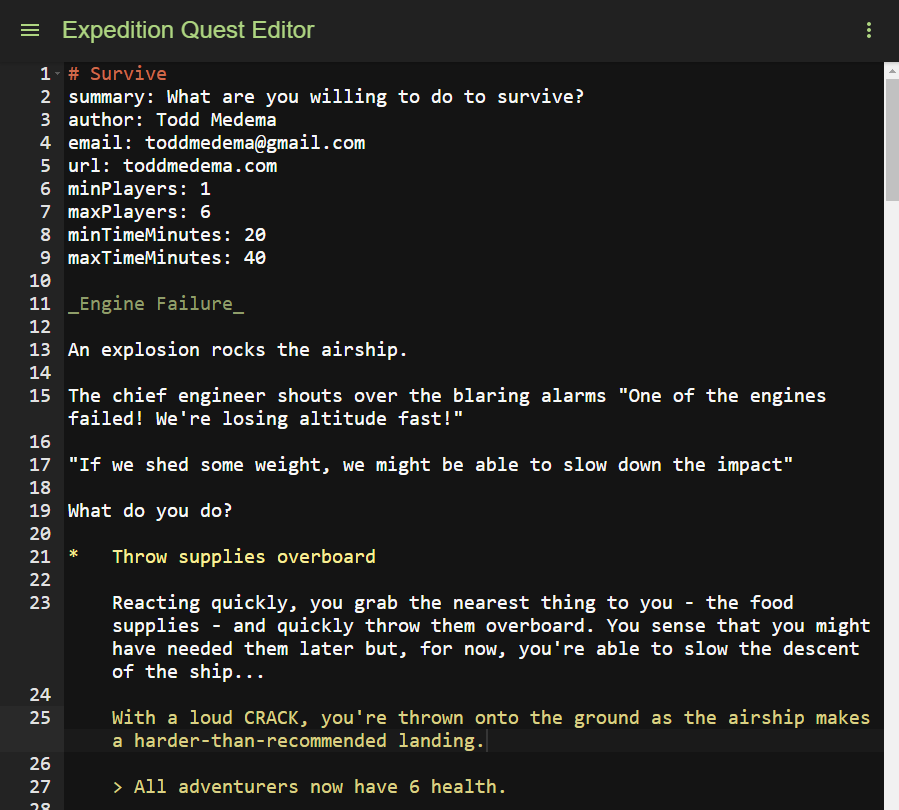
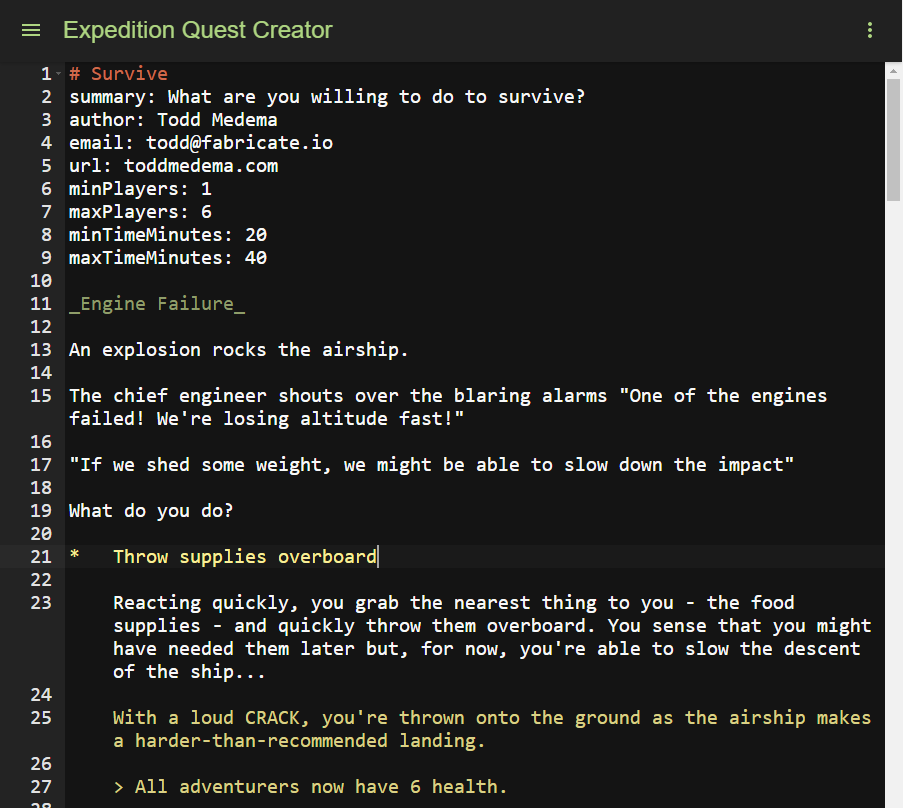
working login and logout from splash page

diff --git a/app/react.tsx b/app/react.tsx
@@ -2,6 +2,7 @@
 /// <reference path="../typings/redux-thunk/redux-thunk.d.ts" />
 /// <reference path="../typings/react-redux/react-redux.d.ts" />
 /// <reference path="../typings/react/react-dom.d.ts" />
+/// <reference path="../typings/react/react-router.d.ts" />
 /// <reference path="../typings/material-ui/material-ui.d.ts" />
 /// <reference path="../typings/react-tap-event-plugin/react-tap-event-plugin.d.ts" />
 /// <reference path="../typings/jquery/jquery.d.ts" />
@@ -17,7 +18,8 @@
 
 
 import * as React from 'react';
-import * as ReactDOM from 'react-dom';
+import { render } from 'react-dom';
+import { Router, Route, Link, hashHistory } from 'react-router';
 
 // So we can hot reload
 declare var require: any;
@@ -41,10 +43,11 @@ import { Provider } from 'react-redux';
 import { createStore, applyMiddleware } from 'redux';
 
 // Custom components
+import DialogsContainer from './components/DialogsContainer';
+import SplashContainer from './components/SplashContainer';
 import QuestAppBarContainer from './components/QuestAppBarContainer';
 import QuestDrawerContainer from './components/QuestDrawerContainer';
 import QuestIDEContainer from './components/QuestIDEContainer';
-import DialogsContainer from './components/DialogsContainer';
 import questIDEApp from './reducers/CombinedReducers';
 
 // Initialize the global redux store
@@ -66,11 +69,30 @@ declare var gapi: any;
 function initAuth(): void {
   gapi.client.setApiKey("AIzaSyCgvf8qiaVoPE-F6ZGqX6LzukBftZ6fJr8");
   gapi.auth2.init({
-      client_id: "545484140970-r95j0rmo8q1mefo0pko6l3v6p4s771ul.apps.googleusercontent.com",
-      scope: "profile"
+    client_id: "545484140970-r95j0rmo8q1mefo0pko6l3v6p4s771ul.apps.googleusercontent.com",
+    scope: "profile"
+  }).then(function() {
+    // Render the components, picking up where react left off on the server
+    render(
+      <Router history={hashHistory}>
+        <Route path="/" component={SplashPage}></Route>
+        <Route path="/app" component={AppPage} onEnter={requireAuth}></Route>
+      </Router>,
+      document.getElementById('react-app')
+    );
   });
 }
 gapi.load('client:auth2', initAuth);
+
+
+function requireAuth(nextState: any, replace: any): void {
+  if (gapi.auth2 == null || !gapi.auth2.getAuthInstance().isSignedIn.get()) {
+    replace({
+      pathname: '/',
+      state: { nextPathname: nextState.location.pathname }
+    });
+  }
+}
 
 
 if (module.hot) {
@@ -82,17 +104,34 @@ if (module.hot) {
   });
 }
 
-// Render the components, picking up where react left off on the server
-ReactDOM.render(
-  <MuiThemeProvider muiTheme={getMuiTheme(theme)}>
-    <Provider store={store}>
-      <div style={{width: "100%", height: "100%"}}>
-        <QuestAppBarContainer/>
-        <QuestIDEContainer/>
-        <QuestDrawerContainer/>
-        <DialogsContainer/>
-      </div>
-    </Provider>
-  </MuiThemeProvider>,
-  document.getElementById('react-app')
-);
+
+const AppPage = React.createClass({
+  render() {
+    return (
+      <MuiThemeProvider muiTheme={getMuiTheme(theme)}>
+        <Provider store={store}>
+          <div style={{width: "100%", height: "100%"}}>
+            <QuestAppBarContainer/>
+            <QuestIDEContainer/>
+            <QuestDrawerContainer/>
+            <DialogsContainer/>
+          </div>
+        </Provider>
+      </MuiThemeProvider>
+    )
+  }
+});
+
+const SplashPage = React.createClass({
+  render() {
+    return (
+      <MuiThemeProvider muiTheme={getMuiTheme(theme)}>
+        <Provider store={store}>
+          <div style={{width: "100%", height: "100%"}}>
+            <SplashContainer/>
+          </div>
+        </Provider>
+      </MuiThemeProvider>
+    )
+  }
+});

diff --git a/routes.js b/routes.js
@@ -14,6 +14,8 @@ var express = require('express');
 
 // TODO: Rate limit all routers
 // TODO: SSL
+// TODO: Abstract all these auth checks and try/catch boilerplate into middleware.
+// Idea: use a validation library like Joi to validate params
 
 // Use the oauth middleware to automatically get the user's profile
 // information and expose login/logout URLs to templates.
@@ -22,56 +24,12 @@ router.use(oauth2.template);
 
 var ALLOWED_CORS = "http://semartin.local:5000";
 
-function isAuthenticated(req, res, next) {
-  if (req.user != null)
-    return next();
-  res.redirect('/');
-}
-
 
 router.get('/', function(req, res) {
-
-// console.log(req)
-
-  if (req.user != null) {
-    return res.redirect('/app');
-  }
-
-// res.render('app', {
-//   // Pass current state to client side.
-//   // res.locals is set by oauth2 and includes user display info.
-//   state: JSON.stringify(res.locals),
-// });
-  res.render('splash', {});
-});
-
-router.get('/app', isAuthenticated, function(req, res) {
   res.render('app', {
-    // Pass current state to client side.
-    // res.locals is set by oauth2 and includes user display info.
     state: JSON.stringify(res.locals),
   });
 });
-
-router.get('/login', function(req, res) {
-  var params = querystring.stringify({
-    response_type: 'token',
-    client_id: config.get('OAUTH2_CLIENT_ID'),
-    redirect_uri: 'http://localhost:8080/auth/google/callback',
-    scope: 'profile',
-    include_granted_scopes: true,
-  });
-  res.redirect('https://accounts.google.com/o/oauth2/v2/auth?' + params);
-});
-
-
-router.get('/auth/google/callback', function(req, res) {
-  res.redirect('/');
-});
-
-
-// TODO: Abstract all these auth checks and try/catch boilerplate into middleware.
-// Idea: use a validation library like Joi to validate params
 
 router.post('/quests', function(req, res) {
 

diff --git a/app/components/QuestAppBar.tsx b/app/components/QuestAppBar.tsx
@@ -23,20 +23,6 @@ export interface QuestAppBarDispatchProps {
 interface QuestAppBarProps extends QuestAppBarStateProps, QuestAppBarDispatchProps {}
 
 const QuestAppBar = (props: QuestAppBarProps): JSX.Element => {
-  var user_item: JSX.Element;
-  if (props.user && props.user.image) {
-    user_item = (
-      <MenuItem primaryText="Sign Out" leftIcon={
-        <Avatar src={props.user.image} />
-      } onTouchTap={() => props.onUserDialogRequest(props.user)} />
-    );
-  } else {
-    user_item = (
-      <MenuItem primaryText="Sign In" leftIcon={
-        <PersonOutlineIcon />
-      } onTouchTap={() => props.onUserDialogRequest(props.user)} />);
-  }
-
   return (
     <AppBar
       title="Expedition Quest Creator"
@@ -50,7 +36,12 @@ const QuestAppBar = (props: QuestAppBarProps): JSX.Element => {
           anchorOrigin={{horizontal: 'right', vertical: 'top'}}
         >
           <MenuItem primaryText="Help" leftIcon={<HelpOutlineIcon/>} onTouchTap={props.onHelpRequest} />
-          {user_item}
+          <MenuItem primaryText="Sign Out"
+            leftIcon={
+              <Avatar src={props.user.image} />
+            }
+            onTouchTap={() => props.onUserDialogRequest(props.user)}
+          />
         </IconMenu>
       } />
   );

diff --git a/app/actions/user.tsx b/app/actions/user.tsx
@@ -1,5 +1,7 @@
-import {SetProfileMetaAction} from './ActionTypes'
-import {UserState} from '../reducers/StateTypes'
+import { hashHistory } from 'react-router';
+
+import {SetProfileMetaAction} from './ActionTypes';
+import {UserState} from '../reducers/StateTypes';
 
 declare var gapi: any;
 
@@ -21,6 +23,7 @@ export function loginUser(): ((dispatch: Redux.Dispatch<any>)=>void) {
           displayName: name,
           image: image
         }));
+        hashHistory.push('/app');
       });
     });
   }
@@ -29,9 +32,8 @@ export function loginUser(): ((dispatch: Redux.Dispatch<any>)=>void) {
 export function logoutUser(): ((dispatch: Redux.Dispatch<any>)=>void) {
   return (dispatch: Redux.Dispatch<any>) => {
     gapi.auth2.getAuthInstance().signOut().then(function() {
-      $.post('/auth/logout', function(data) {
-        dispatch(setProfileMeta({}));
-      });
+      dispatch(setProfileMeta({}));
+      hashHistory.push('/');
     });
   }
 }

diff --git a/app/components/QuestAppBarContainer.tsx b/app/components/QuestAppBarContainer.tsx
@@ -1,7 +1,7 @@
 import { connect } from 'react-redux'
-import {showHelp} from '../actions/dialogs'
-import {setDrawer} from '../actions/drawer'
-import {logoutUser, loginUser} from '../actions/user'
+import { showHelp } from '../actions/dialogs'
+import { setDrawer } from '../actions/drawer'
+import { logoutUser } from '../actions/user'
 import {AppState, UserState} from '../reducers/StateTypes'
 import QuestAppBar, {QuestAppBarStateProps, QuestAppBarDispatchProps} from './QuestAppBar'
 
@@ -15,11 +15,7 @@ const mapDispatchToProps = (dispatch: Redux.Dispatch<any>, ownProps: any): Quest
       dispatch(setDrawer(user.id, true));
     },
     onUserDialogRequest: (user: UserState) => {
-      if (user.id) {
-        dispatch(logoutUser());
-      } else {
-        dispatch(loginUser());
-      }
+      dispatch(logoutUser());
     },
     onHelpRequest: () => {
       dispatch(showHelp());

diff --git a/app/components/Dialogs.tsx b/app/components/Dialogs.tsx
@@ -183,7 +183,6 @@ interface ErrorDialogProps extends React.Props<any> {
 
 export class ErrorDialog extends React.Component<ErrorDialogProps, {}> {
   render() {
-
     var errors: ErrorType[] = [];
     for (var i = 0; i < this.props.errors.length; i++) {
       var error = this.props.errors[i];
